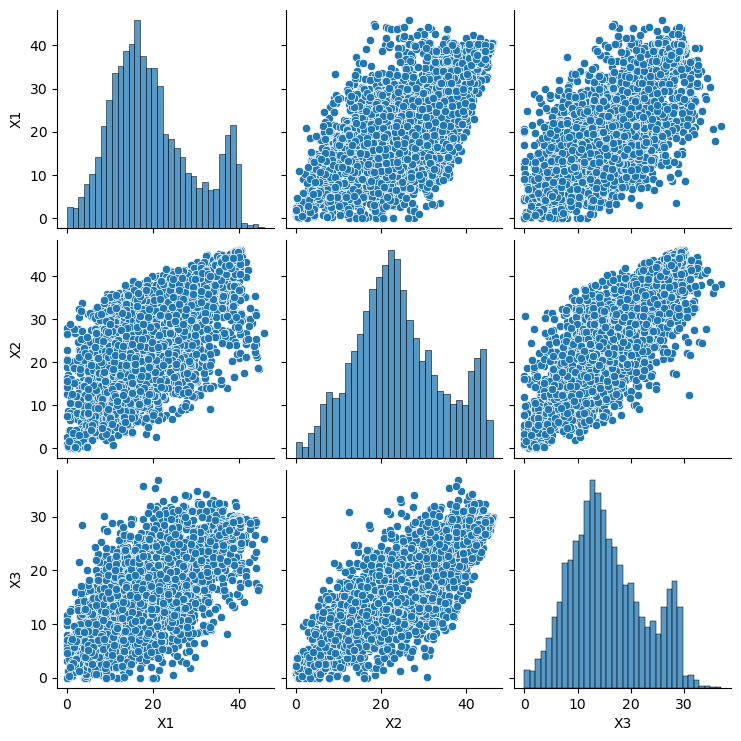
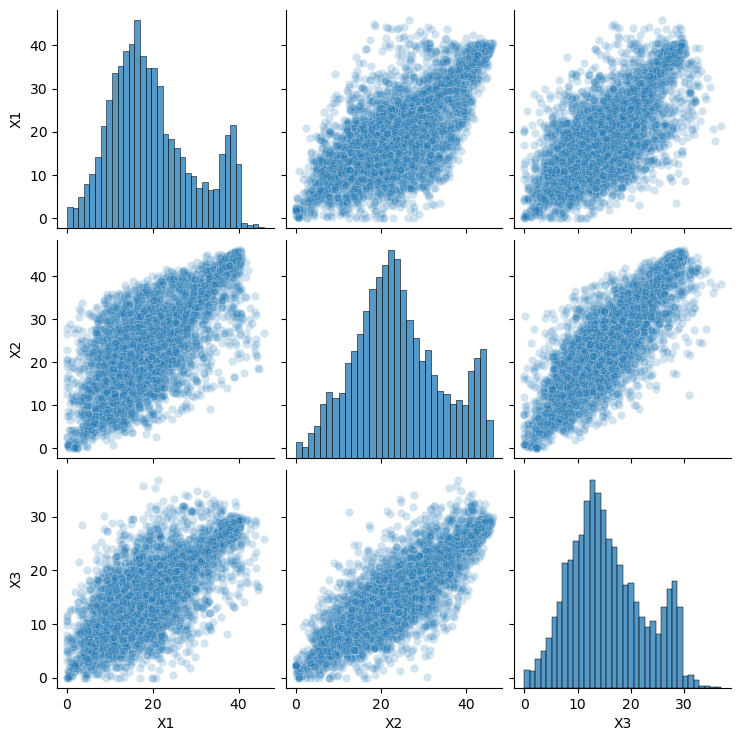
assessment plot update

diff --git a/predictAutoencoder.py b/predictAutoencoder.py
@@ -37,7 +37,7 @@ def assessAE(chkptFile):
         lsRep3.append(ls[2].item())
 
     df = pd.DataFrame(data=list(zip(lsRep1,lsRep2,lsRep3)),columns=["X1","X2","X3"])
-    plt = sns.pairplot(df)
+    plt = sns.pairplot(df, plot_kws={"alpha":0.2})
     plt.savefig(os.path.join(RESULTSDIR,"assessLatentSpace.png"))    
 
 if __name__=="__main__":
